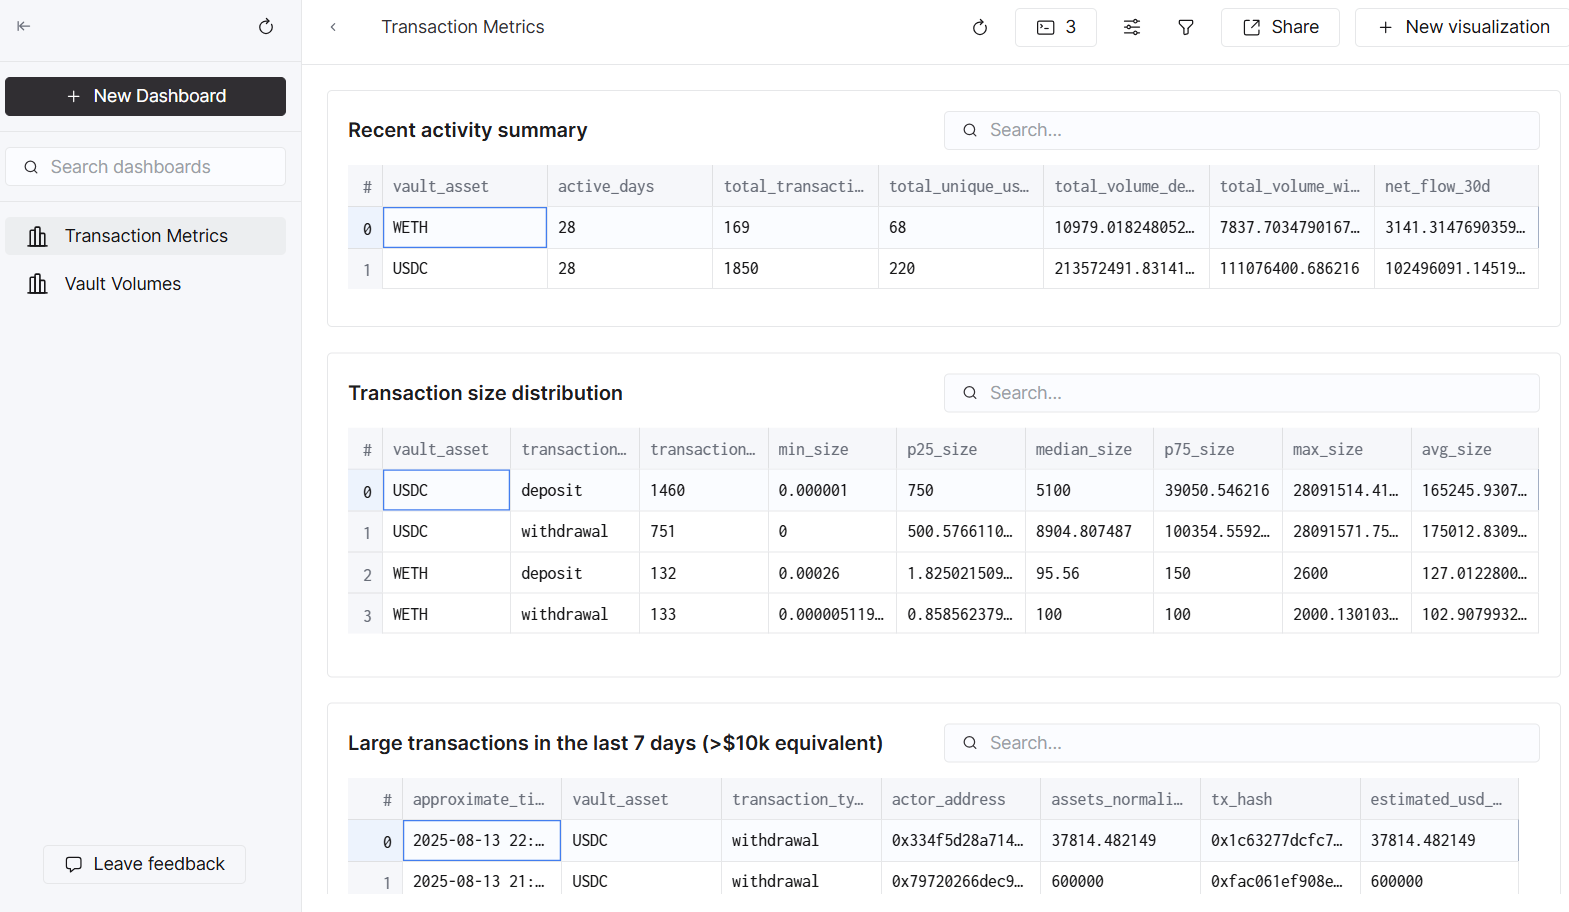
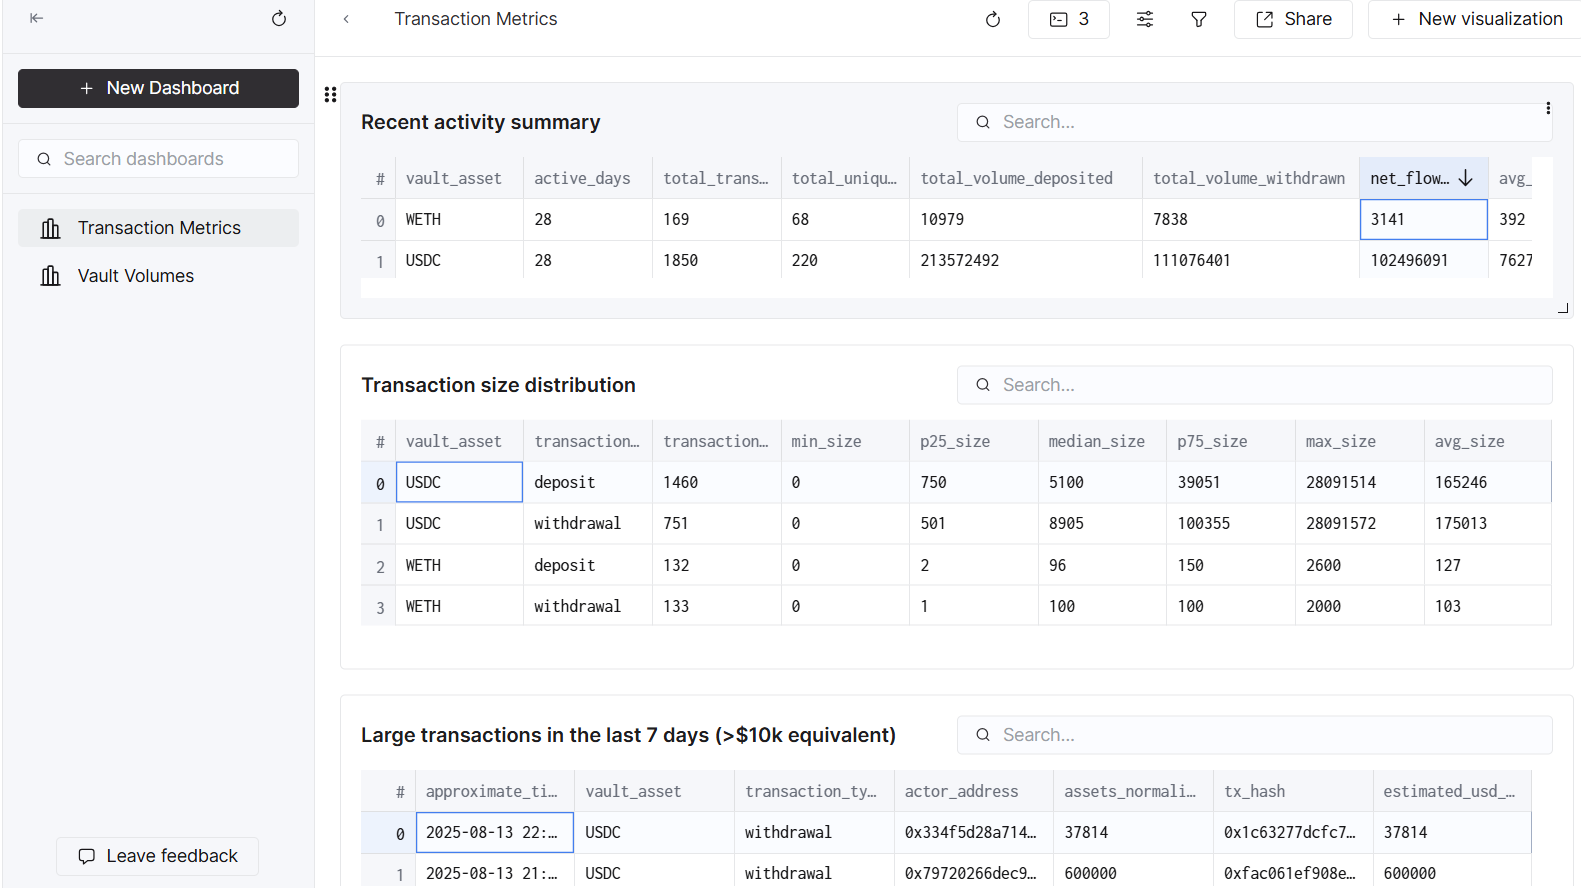
CH dashboard : add rounding to all the volume fields across the queries to make the numbers cleaner and easier to read.

diff --git a/morpho_analytics/STEAKHOUSE_ANALYTICS_QUERIES.md b/morpho_analytics/STEAKHOUSE_ANALYTICS_QUERIES.md
@@ -9,9 +9,9 @@ This document contains useful queries for analyzing Steakhouse USDC and WETH vau
 SELECT 
     transaction_date,
     vault_asset,
-    total_deposits_assets AS daily_deposits,
-    total_withdrawals_assets AS daily_withdrawals,
-    net_assets_flow AS daily_net_flow,
+    ROUND(total_deposits_assets) AS daily_deposits,
+    ROUND(total_withdrawals_assets) AS daily_withdrawals,
+    ROUND(net_assets_flow) AS daily_net_flow,
     deposit_count,
     withdrawal_count,
     unique_users
@@ -33,12 +33,12 @@ WITH daily_flows AS (
 SELECT 
     transaction_date,
     vault_asset,
-    net_assets_flow,
-    SUM(net_assets_flow) OVER (
+    ROUND(net_assets_flow) AS daily_net_flow,
+    ROUND(SUM(net_assets_flow) OVER (
         PARTITION BY vault_asset 
         ORDER BY transaction_date 
         ROWS UNBOUNDED PRECEDING
-    ) AS cumulative_net_flow
+    )) AS cumulative_net_flow
 FROM daily_flows
 ORDER BY transaction_date DESC, vault_asset;
 ```
@@ -46,13 +46,13 @@ ORDER BY transaction_date DESC, vault_asset;
 ## 3. Top Users Analysis
 
 ```sql
--- Top 20 users by total deposited volume across both vaults
+-- Top 10 users by total deposited volume across both vaults
 SELECT 
     user_address,
     vault_asset,
-    total_deposited_assets,
-    total_withdrawn_assets,
-    net_assets_position,
+    ROUND(total_deposited_assets) AS total_deposited_assets,
+    ROUND(total_withdrawn_assets) AS total_withdrawn_assets,
+    ROUND(net_assets_position) AS net_assets_position,
     total_transactions,
     user_type,
     activity_level,
@@ -60,7 +60,7 @@ SELECT
     last_transaction_date
 FROM analytics.agg_steakhouse_user_activity
 ORDER BY total_deposited_assets DESC
-LIMIT 20;
+LIMIT 10;
 ```
 
 ## 4. Vault Utilization Metrics
@@ -72,11 +72,11 @@ SELECT
     COUNT(*) AS active_days,
     SUM(total_transactions) AS total_transactions,
     SUM(unique_users) AS total_unique_users,
-    SUM(total_deposits_assets) AS total_volume_deposited,
-    SUM(total_withdrawals_assets) AS total_volume_withdrawn,
-    SUM(net_assets_flow) AS net_flow_30d,
-    AVG(total_deposits_assets) AS avg_daily_deposits,
-    AVG(total_withdrawals_assets) AS avg_daily_withdrawals
+    ROUND(SUM(total_deposits_assets)) AS total_volume_deposited,
+    ROUND(SUM(total_withdrawals_assets)) AS total_volume_withdrawn,
+    ROUND(SUM(net_assets_flow)) AS net_flow_30d,
+    ROUND(AVG(total_deposits_assets)) AS avg_daily_deposits,
+    ROUND(AVG(total_withdrawals_assets)) AS avg_daily_withdrawals
 FROM analytics.agg_steakhouse_daily_vault_summary
 WHERE transaction_date >= today() - INTERVAL 30 DAY
 GROUP BY vault_asset;
@@ -91,12 +91,12 @@ SELECT
     vault_asset,
     transaction_type,
     COUNT(*) AS transaction_count,
-    MIN(assets_normalized) AS min_size,
-    quantileExact(0.25)(assets_normalized) AS p25_size,
-    quantileExact(0.5)(assets_normalized) AS median_size,
-    quantileExact(0.75)(assets_normalized) AS p75_size,
-    MAX(assets_normalized) AS max_size,
-    AVG(assets_normalized) AS avg_size
+    ROUND(MIN(assets_normalized)) AS min_size,
+    ROUND(quantileExact(0.25)(assets_normalized)) AS p25_size,
+    ROUND(quantileExact(0.5)(assets_normalized)) AS median_size,
+    ROUND(quantileExact(0.75)(assets_normalized)) AS p75_size,
+    ROUND(MAX(assets_normalized)) AS max_size,
+    ROUND(AVG(assets_normalized)) AS avg_size
 FROM analytics.fct_steakhouse_vault_flows
 GROUP BY vault_asset, transaction_type
 ORDER BY vault_asset, transaction_type;
@@ -111,12 +111,12 @@ SELECT
     vault_asset,
     transaction_type,
     actor_address,
-    assets_normalized,
+    ROUND(assets_normalized) AS assets_normalized,
     tx_hash,
-    CASE vault_asset
+    ROUND(CASE vault_asset
         WHEN 'USDC' THEN assets_normalized  -- Already in USD for USDC
         WHEN 'WETH' THEN assets_normalized * 3000  -- Approximate ETH price
-    END AS estimated_usd_value
+    END) AS estimated_usd_value
 FROM analytics.fct_steakhouse_vault_flows
 WHERE 
     transaction_date >= today() - INTERVAL 7 DAY
